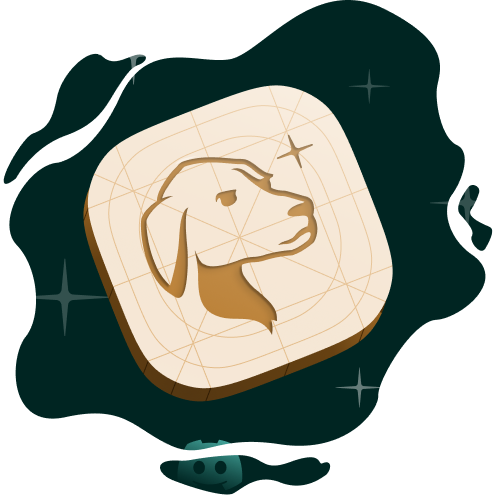
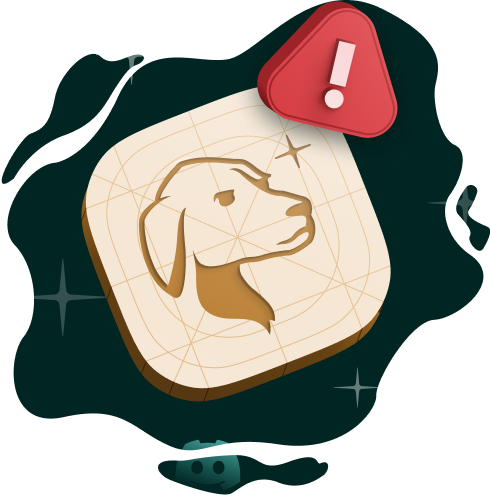
Update onboarding w/ new test warning

diff --git a/ui/pages/Onboarding/OnboardingInfoIntro.tsx b/ui/pages/Onboarding/OnboardingInfoIntro.tsx
@@ -29,13 +29,13 @@ const steps = [
   },
   {
     image: {
-      width: 246.07,
-      height: 251,
+      width: 244.22,
+      height: 247.24,
       fileName: "illustration_onboarding_community_edition",
-      extraStyles: `margin-top: 25px;`,
+      extraStyles: `margin-top: 21px;`,
     },
-    title: "Community Edition",
-    body: `You're about to enjoy an early, pre-release version of Tally. Only test with small amounts and join our Discord!`,
+    title: "Test Responsibly",
+    body: `Tally is a work in progress! This Community Edition includes limited features and may still have bugs.`,
     buttonCopy: "Get started",
   },
 ]
